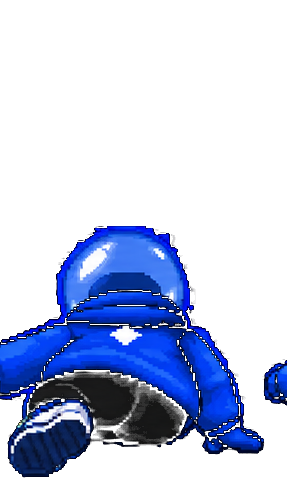
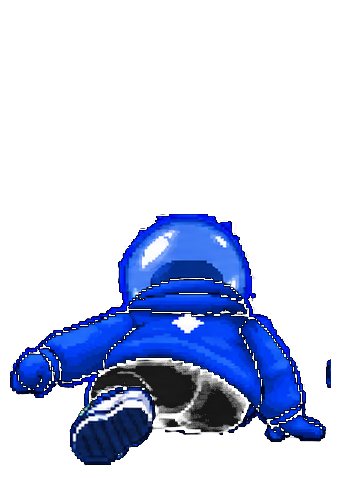
fix: recut slide sprites and raise flying hazards

Changed region(s): [[0.0, 0.4393, 0.9756, 0.9958], [0.9199, 0.7322, 1.0, 0.8201]]

diff --git a/public/index.html b/public/index.html
@@ -36,11 +36,11 @@ function startMusic(){clearInterval(musicTimer);musicStep=0;musicBeat();musicTim
 function stopMusic(){clearInterval(musicTimer);musicTimer=null}
 function removeEntity(entity,type){scene.remove(entity);entity.userData.dead=true;burst(entity.position,type);if(type==='signal'){sfx('collect');flashTimer=.32;arena.classList.remove('collect');void arena.offsetWidth;arena.classList.add('collect')}else if(type==='jump'){sfx('jump')}else{sfx('hit');damageTimer=.42;arena.classList.remove('damage');void arena.offsetWidth;arena.classList.add('damage')}}
 function resize(){const r=arena.getBoundingClientRect();camera.aspect=r.width/r.height;camera.updateProjectionMatrix();renderer.setSize(r.width,r.height,false)}
-function spawn(){const level=difficultyLevel(game.score),roll=Math.random(),signal=roll<.58-level*.05,jumpable=!signal&&roll<.82-level*.02,drone=!signal&&roll>=.82&&roll<.9,g=new THREE.Group();if(signal){const m=new THREE.MeshStandardMaterial({color:0x55a0ff,emissive:0x126cff,emissiveIntensity:2});g.add(new THREE.Mesh(new THREE.OctahedronGeometry(.34),m));g.userData.type='signal'}else{const m=new THREE.MeshStandardMaterial({color:0xff416c,emissive:0x6b1027,emissiveIntensity:1.1});if(drone){const droneMat=new THREE.MeshStandardMaterial({color:0xa855f7,emissive:0x4c1d95,emissiveIntensity:2.4,metalness:.35,roughness:.25});const hull=new THREE.Mesh(new THREE.CapsuleGeometry(.34,1.55,4,8),droneMat);hull.rotation.z=Math.PI/2;hull.position.y=1.62;g.add(hull);for(const x of[-.72,.72]){const thruster=new THREE.Mesh(new THREE.SphereGeometry(.14,8,6),new THREE.MeshStandardMaterial({color:0x67e8f9,emissive:0x0891b2,emissiveIntensity:3}));thruster.position.set(x,1.62,.22);g.add(thruster)}const shadow=new THREE.Mesh(new THREE.CircleGeometry(.9,20),new THREE.MeshBasicMaterial({color:0x000000,transparent:true,opacity:.68,depthWrite:false}));shadow.rotation.x=-Math.PI/2;shadow.position.set(0,.035,0);shadow.scale.x=1.5;g.add(shadow);g.userData.type='drone'}else if(jumpable){const bar=new THREE.Mesh(new THREE.BoxGeometry(2.5,.5,.3),m);bar.position.y=.5;g.add(bar);const foot=new THREE.Mesh(new THREE.BoxGeometry(2.5,.14,.34),new THREE.MeshStandardMaterial({color:0x2d7cff,emissive:0x126cff,emissiveIntensity:1.6}));foot.position.y=.28;g.add(foot);g.userData.type='jump'}else if(level>=3&&roll>.97){const wall=new THREE.Mesh(new THREE.BoxGeometry(7.5,2.6,.4),m);wall.position.y=1.3;g.add(wall);const gapHint=new THREE.Mesh(new THREE.OctahedronGeometry(.3),new THREE.MeshStandardMaterial({color:0x2d7cff,emissive:0x126cff,emissiveIntensity:2}));gapHint.position.set(0,.55,.3);g.add(gapHint);g.userData.type='noise'}else{const a=new THREE.Mesh(new THREE.BoxGeometry(1.6,1.6,.25),m);a.rotation.z=Math.PI/4;g.add(a);g.userData.type='noise'}}g.position.set(lanes[Math.floor(Math.random()*3)],signal?1.3:0,-48);g.userData.hit=false;scene.add(g);entities.push(g)}
+function spawn(){const level=difficultyLevel(game.score),roll=Math.random(),signal=roll<.58-level*.05,jumpable=!signal&&roll<.82-level*.02,drone=!signal&&roll>=.82&&roll<.9,g=new THREE.Group();if(signal){const m=new THREE.MeshStandardMaterial({color:0x55a0ff,emissive:0x126cff,emissiveIntensity:2});g.add(new THREE.Mesh(new THREE.OctahedronGeometry(.34),m));g.userData.type='signal'}else{const m=new THREE.MeshStandardMaterial({color:0xff416c,emissive:0x6b1027,emissiveIntensity:1.1});if(drone){const droneMat=new THREE.MeshStandardMaterial({color:0xa855f7,emissive:0x4c1d95,emissiveIntensity:2.4,metalness:.35,roughness:.25});const hull=new THREE.Mesh(new THREE.CapsuleGeometry(.34,1.55,4,8),droneMat);hull.rotation.z=Math.PI/2;hull.position.y=2.4;g.add(hull);for(const x of[-.72,.72]){const thruster=new THREE.Mesh(new THREE.SphereGeometry(.14,8,6),new THREE.MeshStandardMaterial({color:0x67e8f9,emissive:0x0891b2,emissiveIntensity:3}));thruster.position.set(x,2.4,.22);g.add(thruster)}const shadow=new THREE.Mesh(new THREE.CircleGeometry(.9,20),new THREE.MeshBasicMaterial({color:0x000000,transparent:true,opacity:.68,depthWrite:false}));shadow.rotation.x=-Math.PI/2;shadow.position.set(0,.035,0);shadow.scale.x=1.5;g.add(shadow);g.userData.type='drone'}else if(jumpable){const bar=new THREE.Mesh(new THREE.BoxGeometry(2.5,.5,.3),m);bar.position.y=.5;g.add(bar);const foot=new THREE.Mesh(new THREE.BoxGeometry(2.5,.14,.34),new THREE.MeshStandardMaterial({color:0x2d7cff,emissive:0x126cff,emissiveIntensity:1.6}));foot.position.y=.28;g.add(foot);g.userData.type='jump'}else if(level>=3&&roll>.97){const wall=new THREE.Mesh(new THREE.BoxGeometry(7.5,2.6,.4),m);wall.position.y=1.3;g.add(wall);const gapHint=new THREE.Mesh(new THREE.OctahedronGeometry(.3),new THREE.MeshStandardMaterial({color:0x2d7cff,emissive:0x126cff,emissiveIntensity:2}));gapHint.position.set(0,.55,.3);g.add(gapHint);g.userData.type='noise'}else{const a=new THREE.Mesh(new THREE.BoxGeometry(1.6,1.6,.25),m);a.rotation.z=Math.PI/4;g.add(a);g.userData.type='noise'}}g.position.set(lanes[Math.floor(Math.random()*3)],signal?1.3:0,-48);g.userData.hit=false;scene.add(g);entities.push(g)}
 function move(dir){if(!running)return;game=advance(game,{lane:dir,dt:0});lane=game.lane}
 function reset(){audioCtx??=new AudioContext();audioCtx.resume();game=newGame(Date.now(),Number(localStorage.dlicomRunnerShield||0));lane=game.lane;entities.forEach(x=>scene.remove(x));entities=[];lastSpawn=0;runClock=0;prevLevel=1;prevSurge=0;clock.start();running=true;overlay.hidden=true;startMusic();requestAnimationFrame(loop)}
 function finish(){running=false;stopMusic();high=Math.max(high,game.score);localStorage.dlicomRunnerHigh=high;overlay.hidden=false;el('stateTitle').textContent='LOST SIGNAL';el('stateCopy').textContent=`RUN SCORE ${game.score} · BEST COMBO ${game.bestCombo}`;play.textContent='RUN AGAIN';bestEl.textContent=String(high).padStart(5,'0');bestPanel.textContent=high}
-function loop(){if(!running)return;const dt=Math.min(.04,clock.getDelta()),speed=13+Math.min(15,game.distance*.55);runClock+=dt;lastSpawn+=dt;if(lastSpawn>.7){spawn();lastSpawn=0}let collect=false,hit=false;for(const e of entities){e.position.z+=speed*dt;e.rotation.y+=dt*2;if(!e.userData.hit&&e.position.z>0.7&&e.position.z<2.1&&Math.abs(e.position.x-lanes[lane])<.7){if((e.userData.type==='jump'&&game.jump>0)||(e.userData.type==='drone'&&game.slide>0)){e.userData.hit=true;removeEntity(e,e.userData.type);continue}e.userData.hit=true;if(e.userData.type==='signal')collect=true;else hit=true;removeEntity(e,e.userData.type)}if(e.position.z>11){scene.remove(e);e.userData.dead=true}}entities=entities.filter(e=>!e.userData.dead);for(const b of bursts){b.life-=dt;for(const p of b.group.children){p.position.addScaledVector(p.userData.v,dt);p.userData.v.y-=dt*4;p.material.opacity=Math.max(0,b.life*2)}b.group.children.forEach(p=>p.rotation.z+=dt*6);if(b.life<=0)scene.remove(b.group)}bursts=bursts.filter(b=>b.life>0);for(const m of roadMarkers){m.position.z+=speed*dt;if(m.position.z>14)m.position.z-=112}game=advance(game,{collect,hit,jump:jumpRequested,slide:slideRequested,dt});jumpRequested=false;slideRequested=false;if(game.surge>0&&prevSurge<=0){sfx('supermode');flashTimer=.32}prevSurge=game.surge;const level=difficultyLevel(game.score);if(level>prevLevel){sfx('surge');prevLevel=level}player.position.x+=(lanes[lane]-player.position.x)*Math.min(1,dt*13);player.rotation.z=(lanes[lane]-player.position.x)*-.15;const jumpPhase=1-game.jump/.62;player.position.y=game.jump>0?Math.sin(jumpPhase*Math.PI)*1.35:0;player.scale.y=1;const slidePhase=1-game.slide/.48;player.userData.sprite.material.map=game.jump>0?jumpTextures[Math.min(7,Math.floor(jumpPhase*8))]:game.slide>0?slideTextures[Math.min(7,Math.floor(slidePhase*8))]:runnerTextures[Math.floor(runClock*8)%8];scene.fog.color.set(game.surge>0?0x071a43:0x05070d);surgeEl.classList.toggle('on',game.surge>0);scoreEl.textContent=String(game.score).padStart(5,'0');bestEl.textContent=String(high).padStart(5,'0');if(flashTimer>0){flashTimer-=dt;if(flashTimer<=0)arena.classList.remove('collect')}if(damageTimer>0){damageTimer-=dt;if(damageTimer<=0)arena.classList.remove('damage')}renderer.render(scene,camera);if(game.over){finish();return}requestAnimationFrame(loop)}
+function loop(){if(!running)return;const dt=Math.min(.04,clock.getDelta()),speed=13+Math.min(15,game.distance*.55);runClock+=dt;lastSpawn+=dt;if(lastSpawn>.7){spawn();lastSpawn=0}let collect=false,hit=false;for(const e of entities){e.position.z+=speed*dt;e.rotation.y+=dt*2;if(!e.userData.hit&&e.position.z>0.7&&e.position.z<2.1&&Math.abs(e.position.x-lanes[lane])<.7){if((e.userData.type==='jump'&&game.jump>0)||(e.userData.type==='drone'&&game.slide>0)){e.userData.hit=true;removeEntity(e,e.userData.type);continue}e.userData.hit=true;if(e.userData.type==='signal')collect=true;else hit=true;removeEntity(e,e.userData.type)}if(e.position.z>11){scene.remove(e);e.userData.dead=true}}entities=entities.filter(e=>!e.userData.dead);for(const b of bursts){b.life-=dt;for(const p of b.group.children){p.position.addScaledVector(p.userData.v,dt);p.userData.v.y-=dt*4;p.material.opacity=Math.max(0,b.life*2)}b.group.children.forEach(p=>p.rotation.z+=dt*6);if(b.life<=0)scene.remove(b.group)}bursts=bursts.filter(b=>b.life>0);for(const m of roadMarkers){m.position.z+=speed*dt;if(m.position.z>14)m.position.z-=112}game=advance(game,{collect,hit,jump:jumpRequested,slide:slideRequested,dt});jumpRequested=false;slideRequested=false;if(game.surge>0&&prevSurge<=0){sfx('supermode');flashTimer=.32}prevSurge=game.surge;const level=difficultyLevel(game.score);if(level>prevLevel){sfx('surge');prevLevel=level}player.position.x+=(lanes[lane]-player.position.x)*Math.min(1,dt*13);player.rotation.z=(lanes[lane]-player.position.x)*-.15;const jumpPhase=1-game.jump/.62;player.position.y=game.jump>0?Math.sin(jumpPhase*Math.PI)*1.35:0;player.scale.y=1;const slidePhase=1-game.slide/.48;player.userData.sprite.material.map=game.jump>0?jumpTextures[Math.min(7,Math.floor(jumpPhase*8))]:game.slide>0?slideTextures[Math.min(7,Math.floor(slidePhase*8))]:runnerTextures[Math.floor(runClock*10)%8];scene.fog.color.set(game.surge>0?0x071a43:0x05070d);surgeEl.classList.toggle('on',game.surge>0);scoreEl.textContent=String(game.score).padStart(5,'0');bestEl.textContent=String(high).padStart(5,'0');if(flashTimer>0){flashTimer-=dt;if(flashTimer<=0)arena.classList.remove('collect')}if(damageTimer>0){damageTimer-=dt;if(damageTimer<=0)arena.classList.remove('damage')}renderer.render(scene,camera);if(game.over){finish();return}requestAnimationFrame(loop)}
 function post(){const text=`I scored ${high} in DLICOM RUNNER. Keep the signal alive.\n${location.origin+location.pathname}?ref=${refCode}`;open('https://x.com/intent/post?text='+encodeURIComponent(text),'_blank','noopener')}
 function saveBanner(){const b=document.createElement('canvas');b.width=1200;b.height=630;const x=b.getContext('2d');x.fillStyle='#05070d';x.fillRect(0,0,b.width,b.height);x.fillStyle='#126cff';x.fillRect(0,0,20,b.height);x.fillStyle='#fff';x.font='900 70px Arial';x.fillText('DLICOM RUNNER',75,110);x.fillStyle='#126cff';x.font='900 190px Arial';x.fillText(String(high).padStart(5,'0'),70,340);x.fillStyle='#cbd4e7';x.font='32px Arial';x.fillText('KEEP THE SIGNAL ALIVE.',75,410);x.fillStyle='#126cff';x.beginPath();x.arc(1010,310,150,0,Math.PI*2);x.fill();x.fillStyle='#fff';x.font='900 110px Arial';x.fillText('◆',950,350);const a=document.createElement('a');a.download='dlicom-runner-score.png';a.href=b.toDataURL('image/png');a.click()}
 addEventListener('keydown',e=>{if(e.key==='ArrowLeft'||e.key==='a')move(-1);if(e.key==='ArrowRight'||e.key==='d')move(1);if((e.key===' '||e.code==='Space')&&running){e.preventDefault();jumpRequested=true}if((e.key==='ArrowDown'||e.key==='s')&&running){e.preventDefault();slideRequested=true}});slideBtn.addEventListener('pointerdown',e=>{e.preventDefault();if(running)slideRequested=true});arena.addEventListener('pointerdown',e=>{pointerX=e.clientX});arena.addEventListener('pointerup',e=>{if(pointerX===null)return;const dx=e.clientX-pointerX;move(Math.abs(dx)>22?(dx>0?1:-1):(e.clientX>arena.getBoundingClientRect().left+arena.clientWidth/2?1:-1));pointerX=null});play.onclick=reset;el('share').onclick=post;el('banner').onclick=saveBanner;bestEl.textContent=String(high).padStart(5,'0');bestPanel.textContent=high;setup();renderer.render(scene,camera);

diff --git a/test/dom-id-selector.test.js b/test/dom-id-selector.test.js
@@ -13,9 +13,15 @@ test('footer uses centered FLX play-post tagline', () => {
   assert.match(html, /\.foot\{[^}]*text-align:center/);
 });
 
-test('flying obstacle has a dedicated shadow and visual material', () => {
+test('flying obstacle flies above sliding head with grounded shadow', () => {
   const html = readFileSync(new URL('../public/index.html', import.meta.url), 'utf8');
   assert.match(html, /g\.userData\.type='drone'/);
+  assert.match(html, /hull\.position\.y=2\.4/);
   assert.match(html, /new THREE\.CircleGeometry/);
   assert.match(html, /color:0xa855f7/);
+});
+
+test('runner cycle runs at original 10fps pace', () => {
+  const html = readFileSync(new URL('../public/index.html', import.meta.url), 'utf8');
+  assert.match(html, /runnerTextures\[Math\.floor\(runClock\*10\)%8\]/);
 });
